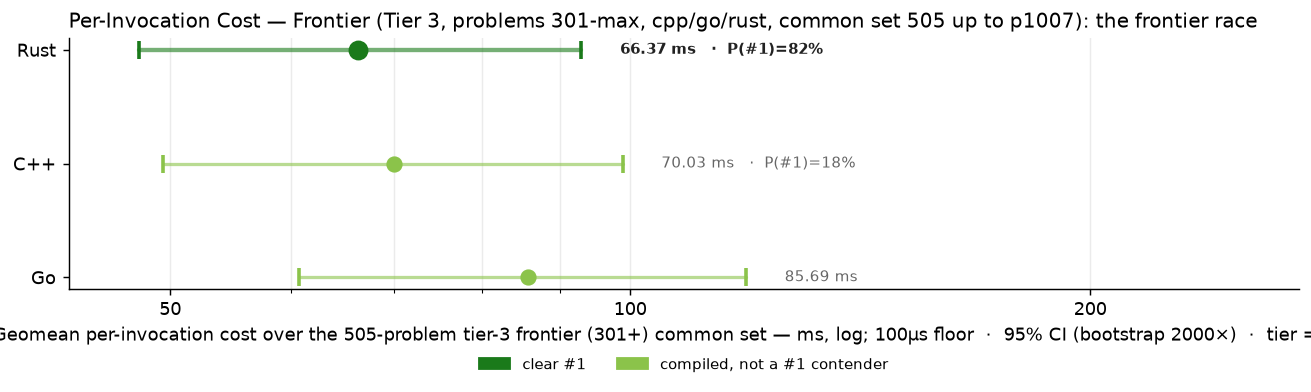
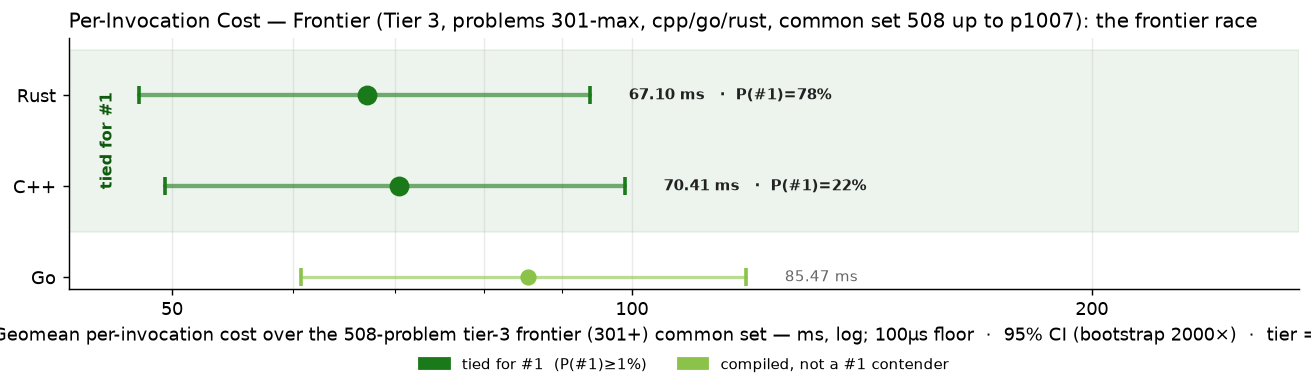
bench p0578,p0838,p0996 (L24 closeout)

diff --git a/RESULTS.md b/RESULTS.md
@@ -1,6 +1,6 @@
 # Project Euler — Cross-Language Benchmarks
 
-> **Scope: 4521 in-scope cells across 1007 problems × tiered languages — 3929 measured (86.9% coverage).**
+> **Scope: 4521 in-scope cells across 1007 problems × tiered languages — 3937 measured (87.1% coverage).**
 > The cross-language ranking below is computed over the **200-problem common set** (problems in 1-200 where every language has a passing measurement) — the apples-to-apples Foundation comparison surface.  Per-tier rankings and coverage detail appear further below.
 > Growing carefully — each new problem and language is audited for state-leak
 > safety, verified for answer correctness, and added only when it cleanly fits the
@@ -70,15 +70,15 @@ Same scatter as the Foundation chart, restricted to the tier-2 active languages 
 
 The frontier verification trio — C++, Go, Rust — on problems above 300. 3-way cross-language agreement is the verification protocol (strictly stronger than 2-way; see JOURNEY.md "Tier Reframing" episode for the p254 lesson that motivated it). Python and Zig are explicitly out of this tier — python's wall cost makes it impractical at level 5+, and zig's role caps at Tier 2.
 
-### Per-Invocation Cost (Common Set, 505 of ≤707 problems in scope)
+### Per-Invocation Cost (Common Set, 508 of ≤707 problems in scope)
 
 ![Per-Invocation Cost — Tier 3](charts/per_iter_total_tier3.png)
 
-| Rank | Language | Geomean (505-problem common set) | Total (sum) | Lines of code | vs Fastest |
+| Rank | Language | Geomean (508-problem common set) | Total (sum) | Lines of code | vs Fastest |
 |------|----------|--------------------:|------------:|--------------:|-----------:|
-| 1 | **Rust** | 66.37 ms | 1527.75 s | 82,712 | 1.00× |
-| 2 | **C++** | 70.03 ms | 1643.63 s | 64,530 | 1.06× |
-| 3 | **Go** | 85.69 ms | 1898.79 s | 80,496 | 1.29× |
+| 1 | **Rust** | 67.10 ms | 1534.24 s | 83,497 | 1.00× |
+| 2 | **C++** | 70.41 ms | 1648.71 s | 65,312 | 1.05× |
+| 3 | **Go** | 85.47 ms | 1900.19 s | 81,450 | 1.27× |
 
 ### Speed vs Code Size
 

diff --git a/per_problem/per_problem_0801-0900.md b/per_problem/per_problem_0801-0900.md
@@ -45,7 +45,7 @@ in tier-1 display order (native → managed → interpreted).
 | **p0835** | 4.0 µs | 3.1 µs | 11.0 µs~ |
 | **p0836** | <1 µs~ | <1 µs | 1.2 µs~ |
 | **p0837** | — | — | — |
-| **p0838** | — | 229.17 ms | — |
+| **p0838** | 10.51 ms | 229.17 ms | 1.68 ms |
 | **p0839** | 124.46 ms | 111.08 ms | 120.46 ms |
 | **p0840** | 866.25 ms | 1.39 s | 1.17 s |
 | **p0841** | 105.88 ms | 49.99 ms | 8.84 s |

diff --git a/per_problem/per_problem_0501-0600.md b/per_problem/per_problem_0501-0600.md
@@ -85,7 +85,7 @@ in tier-1 display order (native → managed → interpreted).
 | **p0575** | 108.66 ms | 4.02 ms | 150.5 µs |
 | **p0576** | — | — | — |
 | **p0577** | 3.5 µs | 5.0 µs | 6.7 µs |
-| **p0578** | — | — | — |
+| **p0578** | 4.96 s | 6.20 s | 1.32 s† |
 | **p0579** | — | — | — |
 | **p0580** | — | — | — |
 | **p0581** | 25.33 ms | 15.63 ms | 201.99 ms |

diff --git a/per_problem/per_problem_0901-1000.md b/per_problem/per_problem_0901-1000.md
@@ -103,7 +103,7 @@ in tier-1 display order (native → managed → interpreted).
 | **p0993** | 856.78 ms | 4.41 s | 4.53 s |
 | **p0994** | 2.51 s | 2.49 s | 4.88 s |
 | **p0995** | — | — | — |
-| **p0996** | — | — | — |
+| **p0996** | 104.13 ms | 56.99 ms | 74.79 ms |
 | **p0997** | 42.97 ms | 54.54 ms | 104.88 ms |
 | **p0998** | — | — | — |
 | **p0999** | — | — | — |
